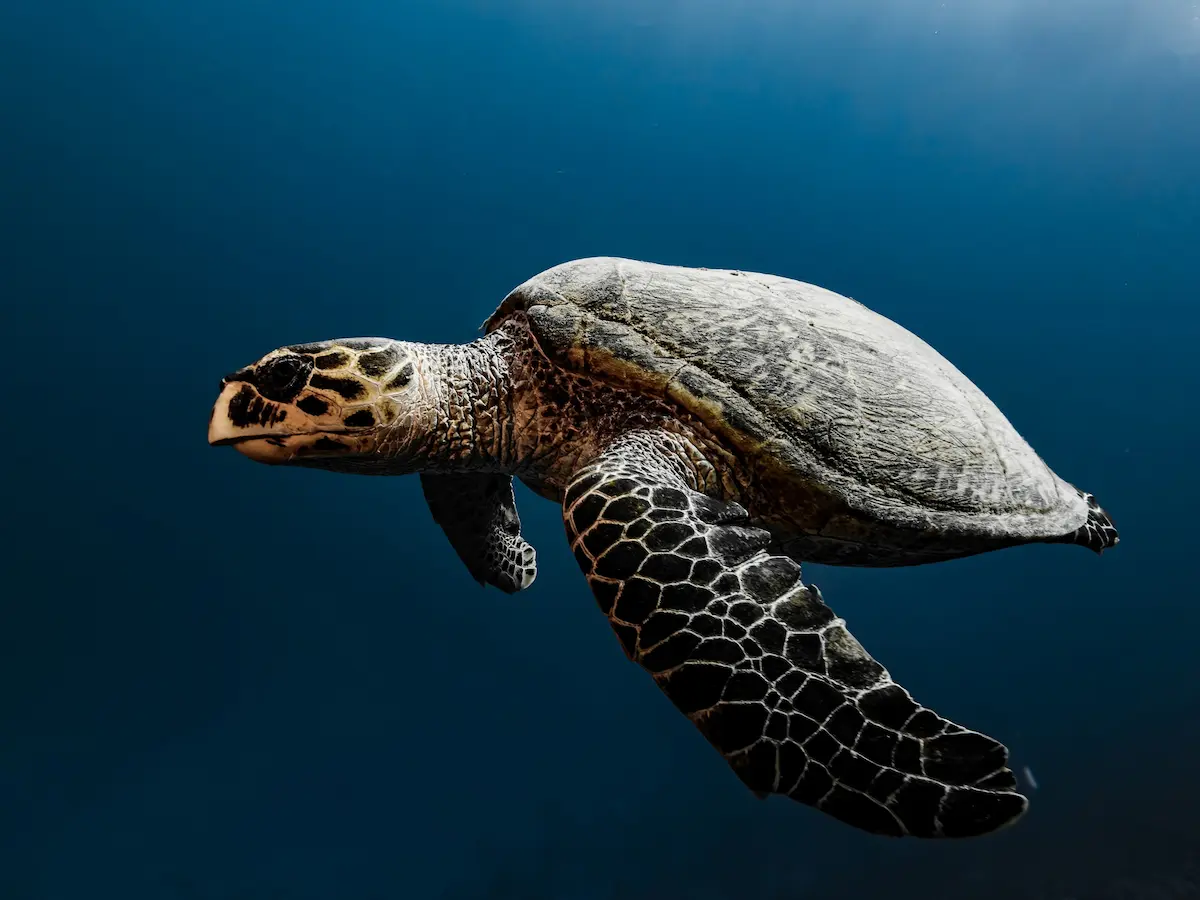
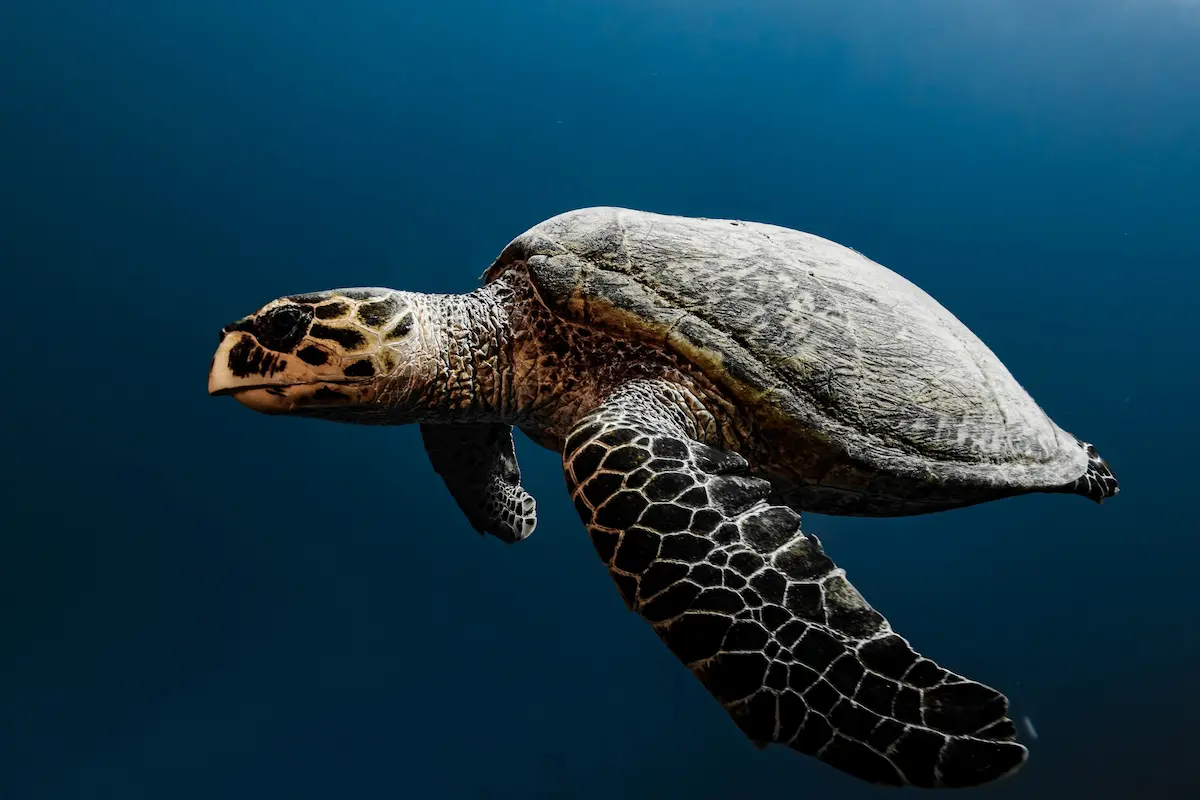
cropped images to all be same size

Changed region(s): [[0.1542, 0.25, 0.9558, 1.0], [0.4008, 0.0, 1.0, 0.1875], [0.3392, 0.5625, 0.37, 0.5938]]

diff --git a/week_10/responsive_images/index.html b/week_10/responsive_images/index.html
@@ -95,6 +95,11 @@
         </div>
       </div>
     </main>
+
+    <footer class="text-center">
+      <a href="../../index.html">Back to Student Portal</a>
+    </footer>
+
     <!-- bootstrap js -->
     <script
       src="https://cdn.jsdelivr.net/npm/bootstrap@5.0.2/dist/js/bootstrap.bundle.min.js"
